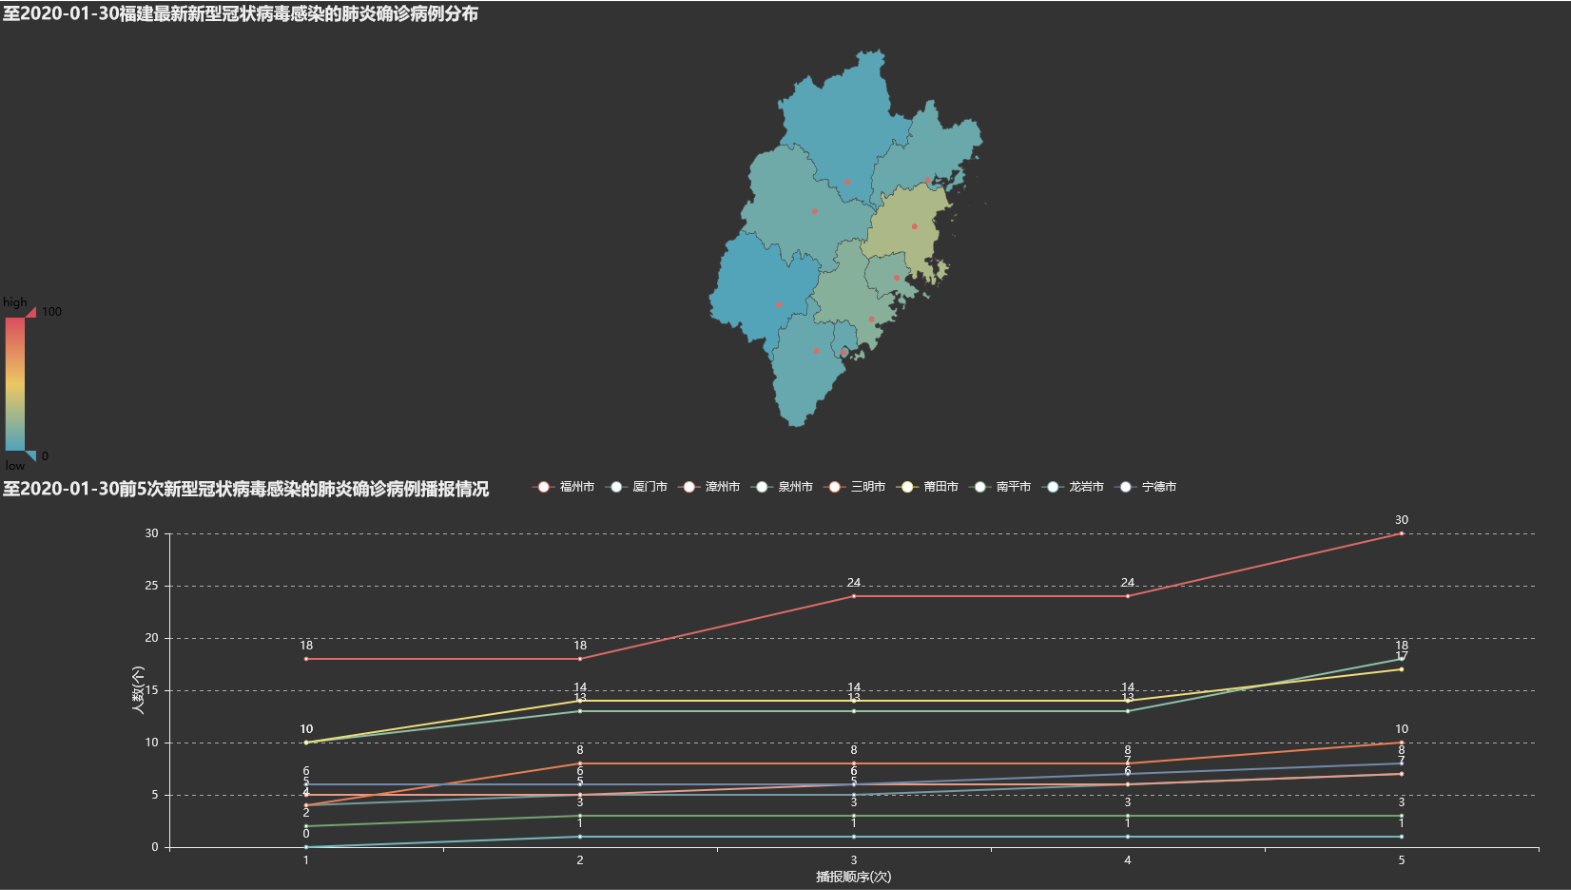
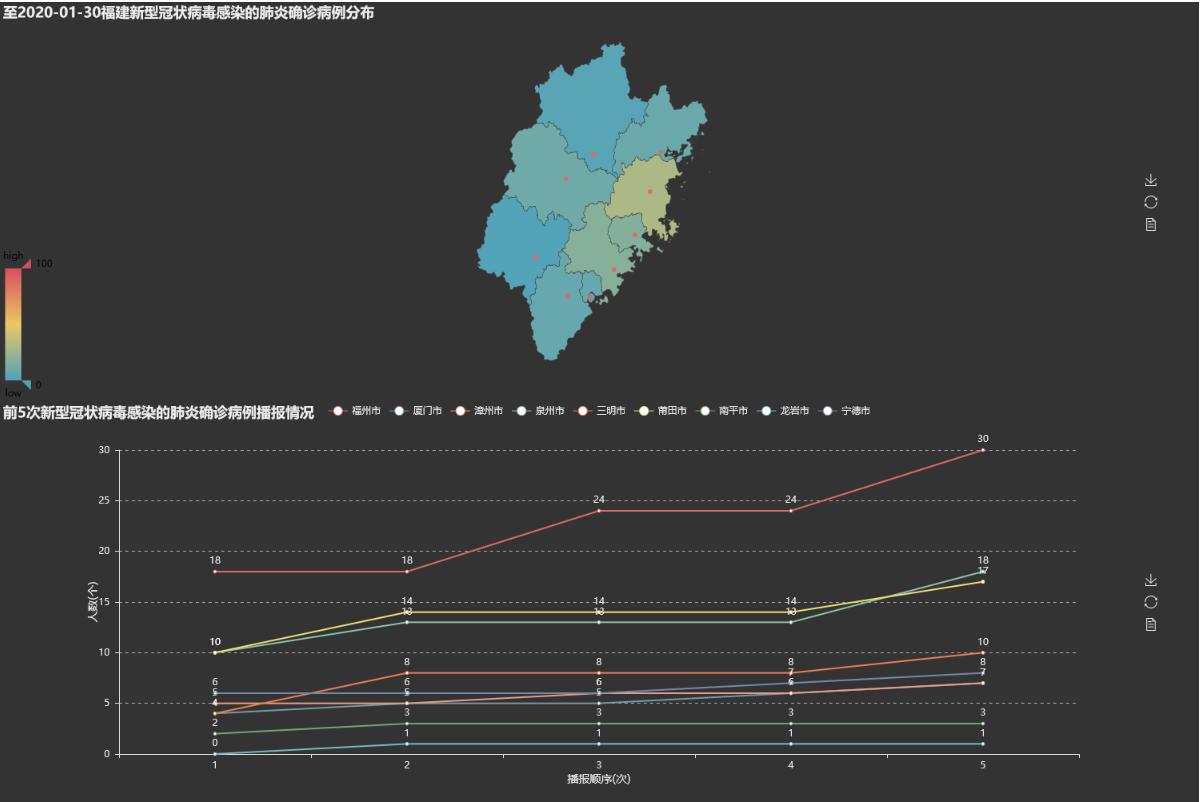
修改了病毒统计

diff --git a/1月~2月新型冠状病毒性肺炎人数统计(福建省）/render.html b/1月~2月新型冠状病毒性肺炎人数统计(福建省）/render.html
@@ -32,16 +32,16 @@
 </script>
 </head>
 <body>
-        <div id="7d04d55c75674222a196b61245684db9" style="width:1800px;height:500px;"></div>
-        <div id="ec72f2696fc94eb98e6fad53a6eca33a" style="width:1800px;height:450px;"></div>
+        <div id="43c204b8231c4118bd684e41c30836ca" style="width:1500px;height:500px;"></div>
+        <div id="91d8cc3a02544a9fb22de9152ed1098e" style="width:1500px;height:500px;"></div>
     <script type="text/javascript">
 
-var myChart_7d04d55c75674222a196b61245684db9 = echarts.init(document.getElementById('7d04d55c75674222a196b61245684db9'), 'dark', {renderer: 'canvas'});
+var myChart_43c204b8231c4118bd684e41c30836ca = echarts.init(document.getElementById('43c204b8231c4118bd684e41c30836ca'), 'dark', {renderer: 'canvas'});
 
-var option_7d04d55c75674222a196b61245684db9 = {
+var option_43c204b8231c4118bd684e41c30836ca = {
     "title": [
         {
-            "text": "\u81f32020-01-30\u798f\u5efa\u6700\u65b0\u65b0\u578b\u51a0\u72b6\u75c5\u6bd2\u611f\u67d3\u7684\u80ba\u708e\u786e\u8bca\u75c5\u4f8b\u5206\u5e03",
+            "text": "\u81f32020-01-30\u798f\u5efa\u65b0\u578b\u51a0\u72b6\u75c5\u6bd2\u611f\u67d3\u7684\u80ba\u708e\u786e\u8bca\u75c5\u4f8b\u5206\u5e03",
             "left": "auto",
             "top": "auto",
             "textStyle": {
@@ -72,7 +72,7 @@ var option_7d04d55c75674222a196b61245684db9 = {
             }
         }
     },
-    "series_id": 1860993,
+    "series_id": 3734363,
     "tooltip": {
         "trigger": "item",
         "triggerOn": "mousemove|click",
@@ -191,15 +191,15 @@ var option_7d04d55c75674222a196b61245684db9 = {
         "showLabel": true
     }
 };
-myChart_7d04d55c75674222a196b61245684db9.setOption(option_7d04d55c75674222a196b61245684db9);
+myChart_43c204b8231c4118bd684e41c30836ca.setOption(option_43c204b8231c4118bd684e41c30836ca);
 
 
-var myChart_ec72f2696fc94eb98e6fad53a6eca33a = echarts.init(document.getElementById('ec72f2696fc94eb98e6fad53a6eca33a'), 'dark', {renderer: 'canvas'});
+var myChart_91d8cc3a02544a9fb22de9152ed1098e = echarts.init(document.getElementById('91d8cc3a02544a9fb22de9152ed1098e'), 'dark', {renderer: 'canvas'});
 
-var option_ec72f2696fc94eb98e6fad53a6eca33a = {
+var option_91d8cc3a02544a9fb22de9152ed1098e = {
     "title": [
         {
-            "text": "\u81f32020-01-30\u524d5\u6b21\u65b0\u578b\u51a0\u72b6\u75c5\u6bd2\u611f\u67d3\u7684\u80ba\u708e\u786e\u8bca\u75c5\u4f8b\u64ad\u62a5\u60c5\u51b5",
+            "text": "\u524d5\u6b21\u65b0\u578b\u51a0\u72b6\u75c5\u6bd2\u611f\u67d3\u7684\u80ba\u708e\u786e\u8bca\u75c5\u4f8b\u64ad\u62a5\u60c5\u51b5",
             "left": "auto",
             "top": "auto",
             "textStyle": {
@@ -230,7 +230,7 @@ var option_ec72f2696fc94eb98e6fad53a6eca33a = {
             }
         }
     },
-    "series_id": 8206706,
+    "series_id": 6955079,
     "tooltip": {
         "trigger": "item",
         "triggerOn": "mousemove|click",
@@ -307,7 +307,7 @@ var option_ec72f2696fc94eb98e6fad53a6eca33a = {
             "markLine": {
                 "data": []
             },
-            "seriesId": 8206706
+            "seriesId": 6955079
         },
         {
             "type": "line",
@@ -371,7 +371,7 @@ var option_ec72f2696fc94eb98e6fad53a6eca33a = {
             "markLine": {
                 "data": []
             },
-            "seriesId": 8206706
+            "seriesId": 6955079
         },
         {
             "type": "line",
@@ -435,7 +435,7 @@ var option_ec72f2696fc94eb98e6fad53a6eca33a = {
             "markLine": {
                 "data": []
             },
-            "seriesId": 8206706
+            "seriesId": 6955079
         },
         {
             "type": "line",
@@ -499,7 +499,7 @@ var option_ec72f2696fc94eb98e6fad53a6eca33a = {
             "markLine": {
                 "data": []
             },
-            "seriesId": 8206706
+            "seriesId": 6955079
         },
         {
             "type": "line",
@@ -563,7 +563,7 @@ var option_ec72f2696fc94eb98e6fad53a6eca33a = {
             "markLine": {
                 "data": []
             },
-            "seriesId": 8206706
+            "seriesId": 6955079
         },
         {
             "type": "line",
@@ -627,7 +627,7 @@ var option_ec72f2696fc94eb98e6fad53a6eca33a = {
             "markLine": {
                 "data": []
             },
-            "seriesId": 8206706
+            "seriesId": 6955079
         },
         {
             "type": "line",
@@ -691,7 +691,7 @@ var option_ec72f2696fc94eb98e6fad53a6eca33a = {
             "markLine": {
                 "data": []
             },
-            "seriesId": 8206706
+            "seriesId": 6955079
         },
         {
             "type": "line",
@@ -755,7 +755,7 @@ var option_ec72f2696fc94eb98e6fad53a6eca33a = {
             "markLine": {
                 "data": []
             },
-            "seriesId": 8206706
+            "seriesId": 6955079
         },
         {
             "type": "line",
@@ -819,7 +819,7 @@ var option_ec72f2696fc94eb98e6fad53a6eca33a = {
             "markLine": {
                 "data": []
             },
-            "seriesId": 8206706
+            "seriesId": 6955079
         }
     ],
     "legend": [
@@ -922,7 +922,7 @@ var option_ec72f2696fc94eb98e6fad53a6eca33a = {
     ],
     "color": []
 };
-myChart_ec72f2696fc94eb98e6fad53a6eca33a.setOption(option_ec72f2696fc94eb98e6fad53a6eca33a);
+myChart_91d8cc3a02544a9fb22de9152ed1098e.setOption(option_91d8cc3a02544a9fb22de9152ed1098e);
 
 </script>
 </body>

diff --git a/1月~2月新型冠状病毒性肺炎人数统计(福建省）/数据统计.py b/1月~2月新型冠状病毒性肺炎人数统计(福建省）/数据统计.py
@@ -72,13 +72,13 @@ def get_date():
 
 def creat_map(value,date_):
     cities = ['福州市', '厦门市', '漳州市', '泉州市', '三明市', '莆田市', '南平市', '龙岩市', '宁德市'] 
-    map = Map(f"至{date_}福建最新新型冠状病毒感染的肺炎确诊病例分布", width=1800, height=500)
+    map = Map(f"至{date_}福建新型冠状病毒感染的肺炎确诊病例分布", width=1500, height=500)
     map.add( "", cities, value, maptype="福建", is_visualmap=True, visual_text_color='#000')
     return map
 
 def creat_line(cities_dict,date_,n=5,):
     num = [str(i) for i in range(1,6)]
-    line = Line(f"至{date_}前{n}次新型冠状病毒感染的肺炎确诊病例播报情况",width=1800, height=450)
+    line = Line(f"前{n}次新型冠状病毒感染的肺炎确诊病例播报情况",width=1500, height=500)
     for key in cities_dict:
         line.add(f"{key}", num, cities_dict[f'{key}'][::-1],is_label_show=True,line_width=2,yaxis_name="人数(个)",xaxis_name='播报顺序(次)')
     return line
